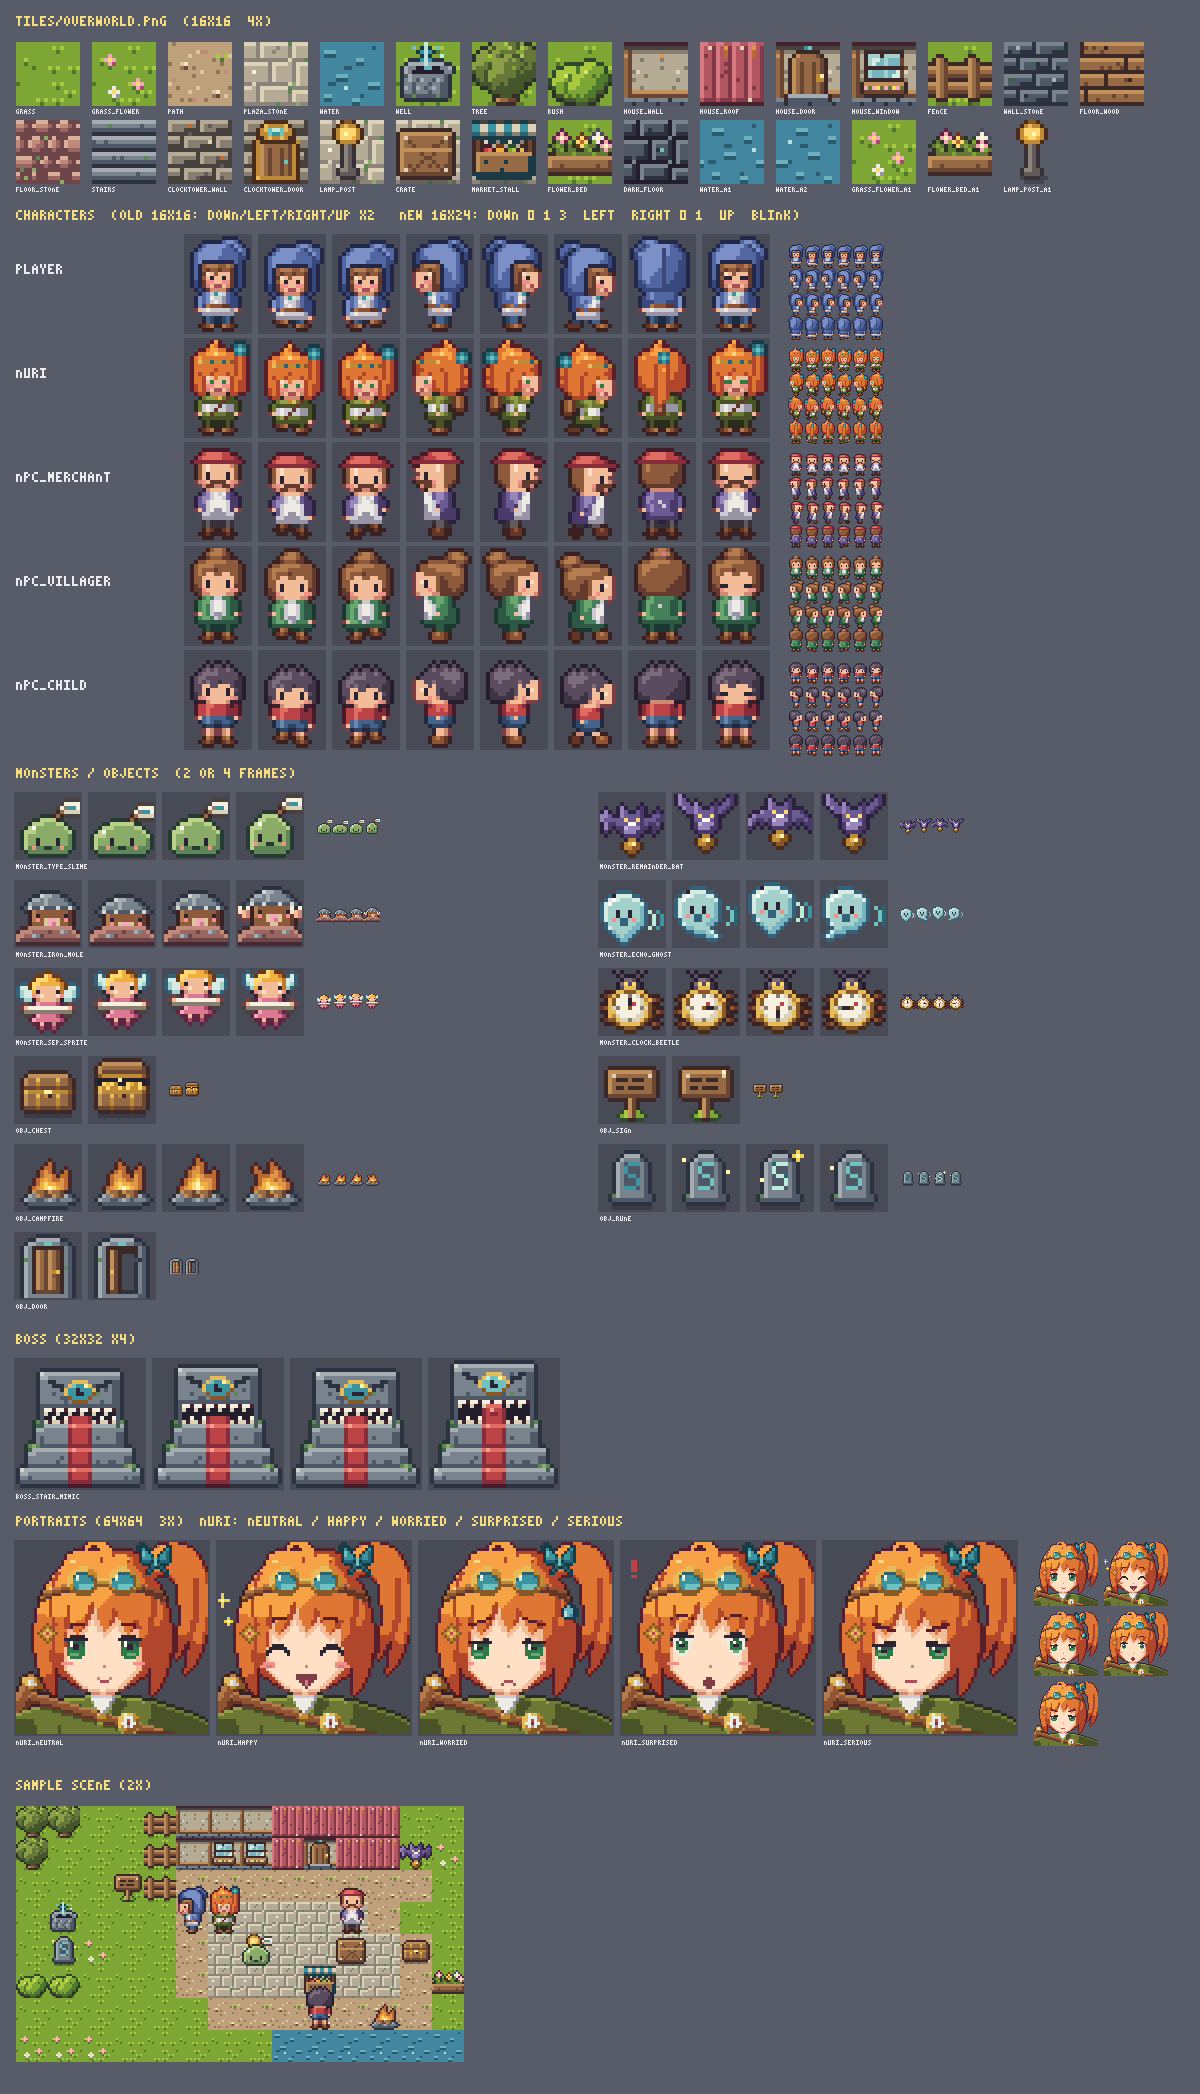
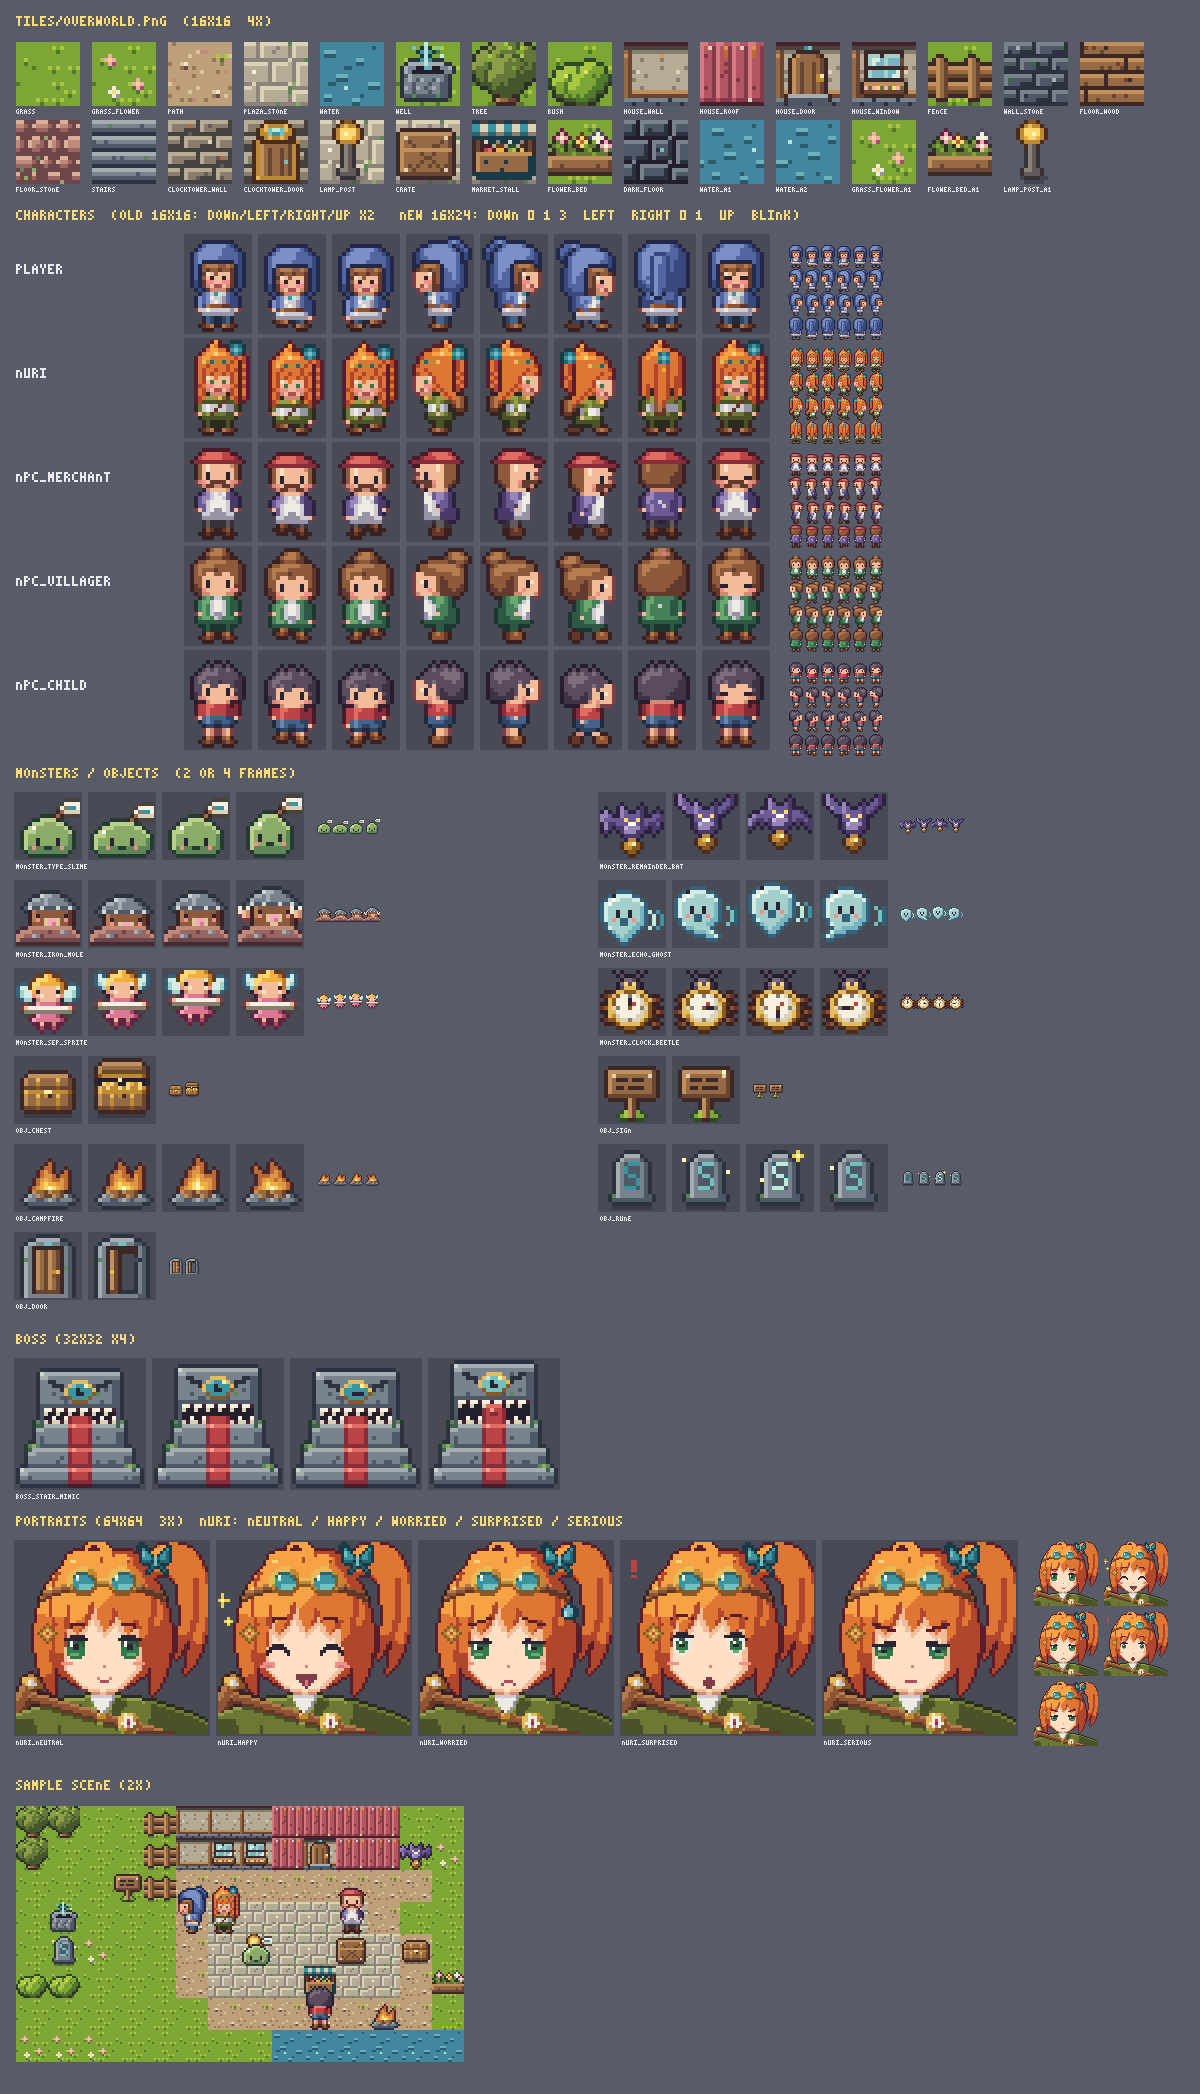
LWITW 화풍(캐릭터): 2차 파일럿 - 누리 머리 폭을 줄이고 옆머리가 어깨까지 흘러내리게, 주인공 후드 끝을 뒤로 넘김
누리: 머리 덩어리 3~12열, 옆머리 2px가 턱 아래 어깨까지, 가닥선 그늘 1px, 옆모습은 흐르는 가닥 하나와 뒤로 흘러내린 머리,
뒷모습은 끝이 좁아지는 긴 머리 + 가운데 포니테일. 포니테일은 정면에서 1px 틈 뒤 1px 가닥(끝 lag).
주인공: 정면 실루엣은 둥글게(끝 없음), 옆은 머리 뒤로, 뒤는 등 가운데 천 띠로 늘어져 끝이 망토 위에(lag 유지).
색 수: 주인공 29, 누리 31. 다른 NPC 프레임 33벌 동일, check.py 바이트 비교 통과.

diff --git a/tools/art/characters.py b/tools/art/characters.py
@@ -81,11 +81,11 @@ PLAYER = Rig(
     heads={
         "down": rows("""
             ................
-            .........cCCc...
-            ....cCCCCCcxCc..
-            ...cCCCCCcccxCc.
-            ..cCCCCCCccccxc.
-            ..cCCCCCcccccxx.
+            ................
+            ....cCCCCCcx....
+            ...cCCCCCcccx...
+            ..cCCCCCCccccx..
+            ..cCCCCCcccccx..
             ..cCXXXXXXXXcx..
             ..cXaAAAaaAaXx..
             ..cXaqaaqaaqXx..
@@ -113,19 +113,19 @@ PLAYER = Rig(
         """),
         "up": rows("""
             ................
-            ...cCCc.........
-            ..cxcCCCCCcx....
-            .cxcCCCCxCccx...
-            .xCCCCCCxCcccx..
-            .xcCCCCCxccccx..
-            ..cCCCCCxcccxx..
-            ..cCCCCCxcccxx..
-            ..cCCCCcxcccxx..
-            ..cCCCccxccxxx..
-            ..cCCcccxccxxx..
-            ..xcCcccxcxxxx..
-            ..xxccccxxxxxx..
-            ...xxxxxxxxxx...
+            ................
+            ....cCCCCCcx....
+            ...cCCCCCCccx...
+            ..cCCCxxxcccxx..
+            ..cCCxCCcxccxx..
+            ..cCCxCCcxcxxx..
+            ..cCCxCccxcxxx..
+            ..cCCxCccxcxxx..
+            ..cCCxCccxxxxx..
+            ..cCcxCccxxxxx..
+            ..xcCxCccxxxxx..
+            ..xxcxCccxxxxx..
+            ...xxxCcxxxx....
         """),
     },
     torsos={
@@ -154,16 +154,8 @@ PLAYER = Rig(
             ....yyyyyyyy....
         """),
     },
-    # 후드 끝(늘어진 부분): 아래 보기는 오른쪽 옆, 옆 보기는 뒤로, 위 보기는 왼쪽 옆
+    # 후드 끝(뒤로 넘겨 늘어진 부분): 정면에서는 보이지 않고, 옆 보기는 머리 뒤로, 위 보기는 등 가운데 망토 위로
     lag={
-        "down": rows("""
-            ................
-            ................
-            ................
-            .............Cc.
-            ..............c.
-            ..............x.
-        """),
         "right": rows("""
             ................
             ................
@@ -176,9 +168,19 @@ PLAYER = Rig(
             ................
             ................
             ................
-            .cx.............
-            .x..............
-            .x..............
+            ................
+            ................
+            ................
+            ................
+            ................
+            ................
+            ................
+            ................
+            ................
+            ................
+            ......Ccx.......
+            .....XCcX.......
+            ......XX........
         """),
     },
     arm_front={"sleeve": "C", "sleeve_dark": "x", "hand": "s", "top": 15},
@@ -205,51 +207,57 @@ NURI = Rig(
     heads={
         "down": rows("""
             .......A........
-            ......Aa....kgk.
-            .....aAAaa..gGg.
-            ...aaAAQAAaakgk.
-            ..aAaaaaaaaaqaq.
-            ..aRrrkrrkruqaq.
-            ..aaaaaaaaaaqaq.
-            ..aaaaaqaaaaqaq.
-            ..aqaaqaaaqaqaq.
-            ..aaqSsasssqaaq.
-            ..aaqsessesqaq..
-            ..qaqppssppqaq..
-            ..qaqzsmmszqaq..
-            ...qq.zzzz.qq...
+            ......Aa...kgk..
+            .....aAAaa.gGg..
+            ....aAAQAAakgk..
+            ...aAAaaaaaaqaq.
+            ...aRrkrrkrqa.q.
+            ...aaqaaaaqaa.a.
+            ...aqaaqaaqaq.q.
+            ...aqaqaaqaqa.a.
+            ...aqSsasssqa.q.
+            ...aqsessesqa.a.
+            ...qappssppaq.q.
+            ...aqzsmmszqa...
+            ...aq.zzzz.qa...
+            ...qa......aq...
+            ...q........q...
         """),
         "right": rows("""
             ......A.........
             .....Aa.........
-            ....aaAAaa......
-            .kgkaAAQAAaa....
-            .gGgaAaaaaaaq...
-            .kgkaaaaRrrrkr..
-            ..qaaaaaaaaaaq..
-            ..qaaaaqaaaaqq..
-            ..qaaaqaaaqaaq..
-            ..qaaaqaaaSsss..
-            ..qaaaqaaqsess..
-            ..qaaaqaaqppss..
-            ...qaaqaqqzsms..
-            ....qqqq..zzz...
+            ..kgkaAAaa......
+            ..gGgAAQAAaa....
+            ..kgkaaaaaaaq...
+            ..aq.aaaRrrkr...
+            ..aq.aaaaaaaaq..
+            ..aq.aaaaaaqaa..
+            ..qa.aaaaaqaaq..
+            ..aq.aaaaqSsss..
+            .....aaaaqsess..
+            .....aaaqappss..
+            .....aaqaqzsms..
+            ....aaqa..zzz...
+            ....aqa.........
+            ....q...........
         """),
         "up": rows("""
             .......A........
             ......Aa........
             .....aAAaa......
-            ...aaAAkgkaa....
-            ..aAaaagGgaaq...
-            ..aaaaakgkaaq...
-            ..aaaaqaaqaaqq..
-            ..aaaaqaAqaaqq..
-            ..aaaaqaaqaqqq..
-            ..qaaaqaaqaqqq..
-            ..qaaaqaaqqqqq..
-            ..qqaaqaaqqqqq..
-            ...qqqqaaqqqq...
-            .....qqaaq......
+            ....aAAkgkaa....
+            ...aAaagGgaaq...
+            ...aaaakgkaaq...
+            ...aaaqaaqaaq...
+            ...aaaqaAqaaq...
+            ...aaaqaaqaaq...
+            ...aaaqaaqaqq...
+            ...aaaqaaqaqq...
+            ...aqaqaaqaqq...
+            ...aq.qaaq.qa...
+            ...aq.qaaq.qa...
+            ....q.qaaq.q....
+            .......aq.......
         """),
     },
     torsos={
@@ -278,7 +286,7 @@ NURI = Rig(
             ....xxxxxxxx....
         """),
     },
-    # 포니테일 끝: 아래 보기는 오른쪽 옆, 옆 보기는 뒤로, 위 보기는 등 위로 늘어진다
+    # 포니테일 끝: 아래 보기는 오른쪽 옆(1px 틈 뒤), 옆 보기는 머리 뒤로, 위 보기는 등 위로 늘어진다
     lag={
         "down": rows("""
             ................
@@ -290,9 +298,11 @@ NURI = Rig(
             ................
             ................
             ................
-            .............aq.
-            .............qq.
-            .............aq.
+            ................
+            ................
+            ..............q.
+            ..............a.
+            ..............a.
             ..............q.
         """),
         "right": rows("""
@@ -302,12 +312,13 @@ NURI = Rig(
             ................
             ................
             ................
-            ..qq............
-            .aq.............
-            .aq.............
-            .qq.............
-            .aq.............
-            .q..............
+            ................
+            ................
+            ................
+            ..aq............
+            ..qa............
+            ..aq............
+            ...q............
         """),
         "up": rows("""
             ................
@@ -323,10 +334,10 @@ NURI = Rig(
             ................
             ................
             ................
-            .....qqaaq......
             ......qaaq......
-            ......qaq.......
-            .......q........
+            .......aq.......
+            .......aq.......
+            ........q.......
         """),
     },
     arm_front={"sleeve": "c", "sleeve_dark": "x", "hand": "s", "top": 15},
